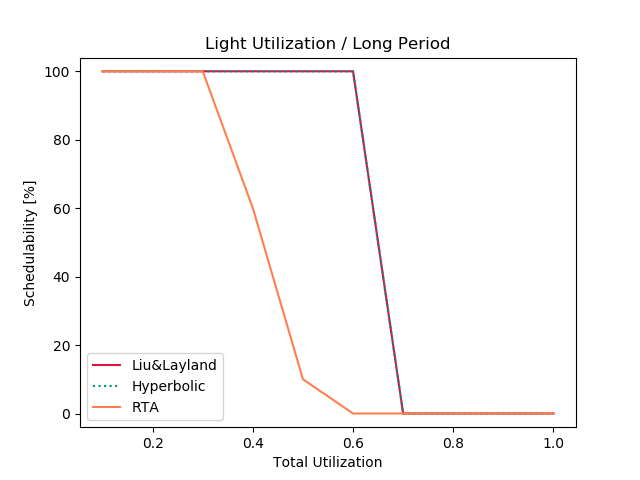
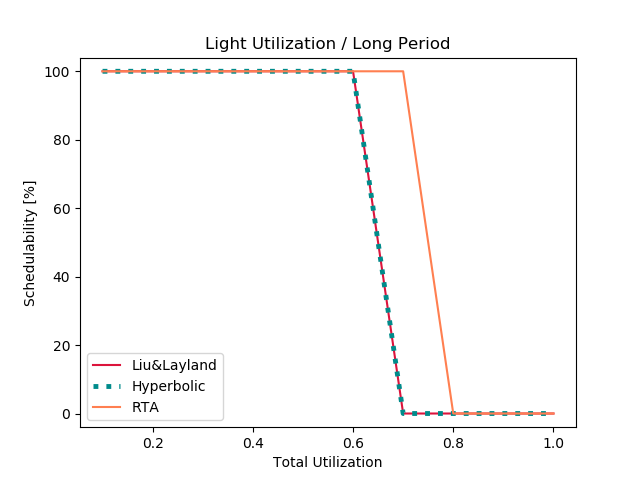
RTA working. Improved plotting

diff --git a/1_Trabalho/tests.py b/1_Trabalho/tests.py
@@ -38,8 +38,12 @@ def liu_lay_test(utilization, period):
         return 0
 
 def rta_test(utilization, period):
-    i = 0
-    for p in period:
+    utilization, period = sort_by_priority(utilization, period)
+    i = len(period) - 1
+    for p in reversed(period):
+        if i < 0:
+            return 1
+
         ri = []
         result = 0
         j = 0
@@ -47,7 +51,7 @@ def rta_test(utilization, period):
 
         # Calculates ri[0]
         result = period[i] * utilization[i]
-        while (j < i):
+        while (period[j] < p and j < i):
             result += period[j] * utilization[j]
             j += 1
 
@@ -56,29 +60,29 @@ def rta_test(utilization, period):
         # Calculates ri[1]
         result = period[i] * utilization[i]
         j = 0
-        while (j < i):
+        while (period[j] < p and j < i):
             result += math.ceil(ri[k - 1] / period[j]) * period[j] * utilization[j]
             j += 1
 
         ri.append(result)
 
         # Calculates ri[k]
-        while (abs(ri[k] - ri[k - 1]) > 0.0):
+        while (abs(ri[k] - ri[k - 1]) > 0.001):
         # while (abs(ri[k] - ri[k - 1]) > 0.1):
             k += 1
-            result = period[i] * utilization[i]
             j = 0
-            while (j < i):
+            result = period[i] * utilization[i]
+            while (period[j] < p and j < i):
                 result += math.ceil(ri[k - 1] / period[j]) * period[j] * utilization[j]
                 j += 1
 
+            # As Ri[k + 1] >= Ri[k] always
+            if result > p:
+                return 0
+
             ri.append(result)
 
-        if ri[k] > p and i > 0: # Assuming Di = Ti
-        # if ri[k] > p: # Assuming Di = Ti
-            return 0
-
-        i += 1
+        i -= 1
 
     return 1
 
@@ -117,7 +121,7 @@ def plotGraph(case, graphH, graphL, graphR):
     x = [0.1, 0.2, 0.3, 0.4, 0.5, 0.6, 0.7, 0.8, 0.9, 1]
     fig = plt.figure()
     plt.plot(x, graphL, color = "#DC143C", label = "Liu&Layland")
-    plt.plot(x, graphH, ':', color = "#008B8B", label = "Hyperbolic")
+    plt.plot(x, graphH, ':', color = "#008B8B", label = "Hyperbolic", linewidth = 3.5)
     plt.plot(x, graphR, color = "#FF7F50", label = "RTA")
 
     plt.legend(loc = "lower left")
@@ -126,7 +130,6 @@ def plotGraph(case, graphH, graphL, graphR):
     plt.ylabel("Schedulability [%]")
     plt.ylim(-4, 104)
     plt.savefig(filename)
-
 
 def random_uniform(min, max):
     # Light and moderate period
@@ -149,6 +152,12 @@ def random_uniform_res(min, max, resolution):
         res = round(random.uniform(min, max), resolution)
 
     return res
+
+# Sorts both parameters based on priority (shorter period, higher priority)
+def sort_by_priority(utilization, period):
+    arrayUtilization = [u for p, u in sorted(zip(period, utilization))]
+    period.sort()
+    return arrayUtilization, period
 
 def generateTaskSet(max_utilization, case):
     min_utilization_case = 0.0
